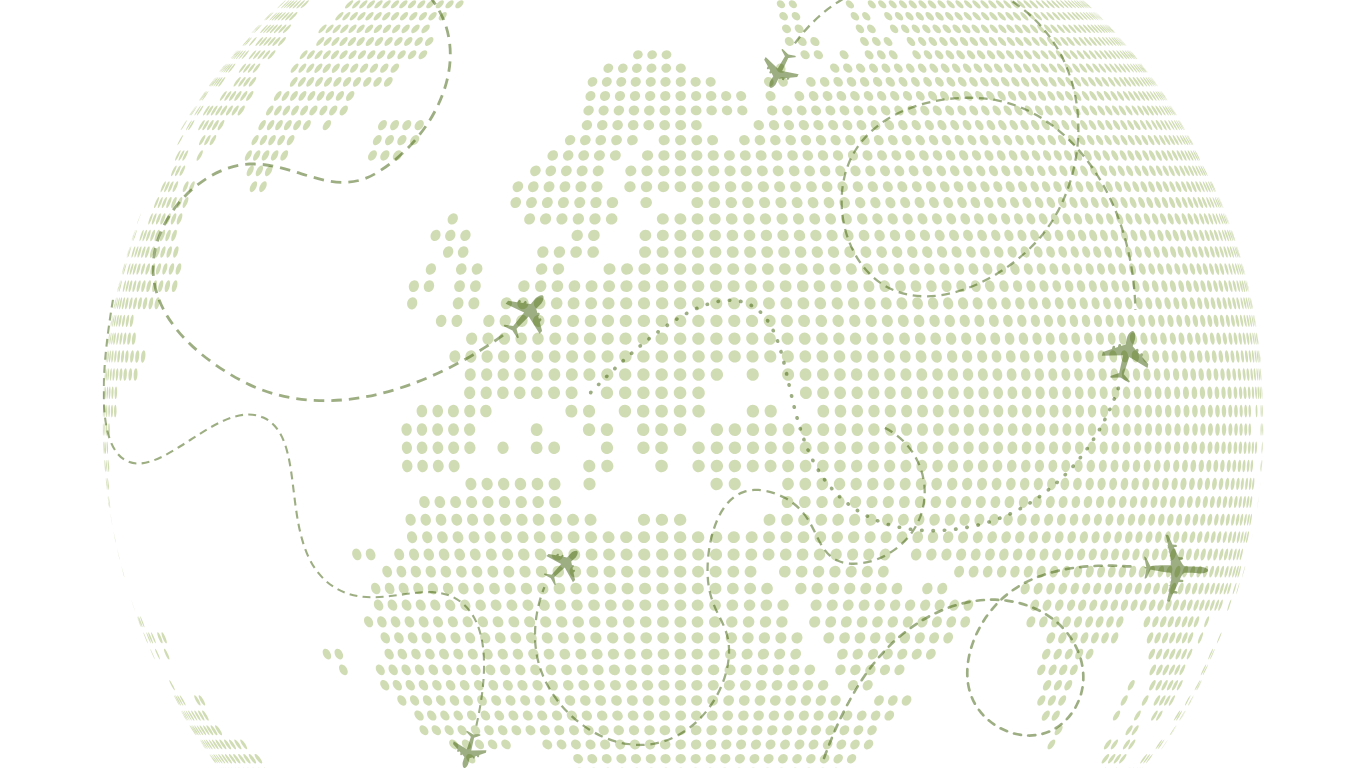
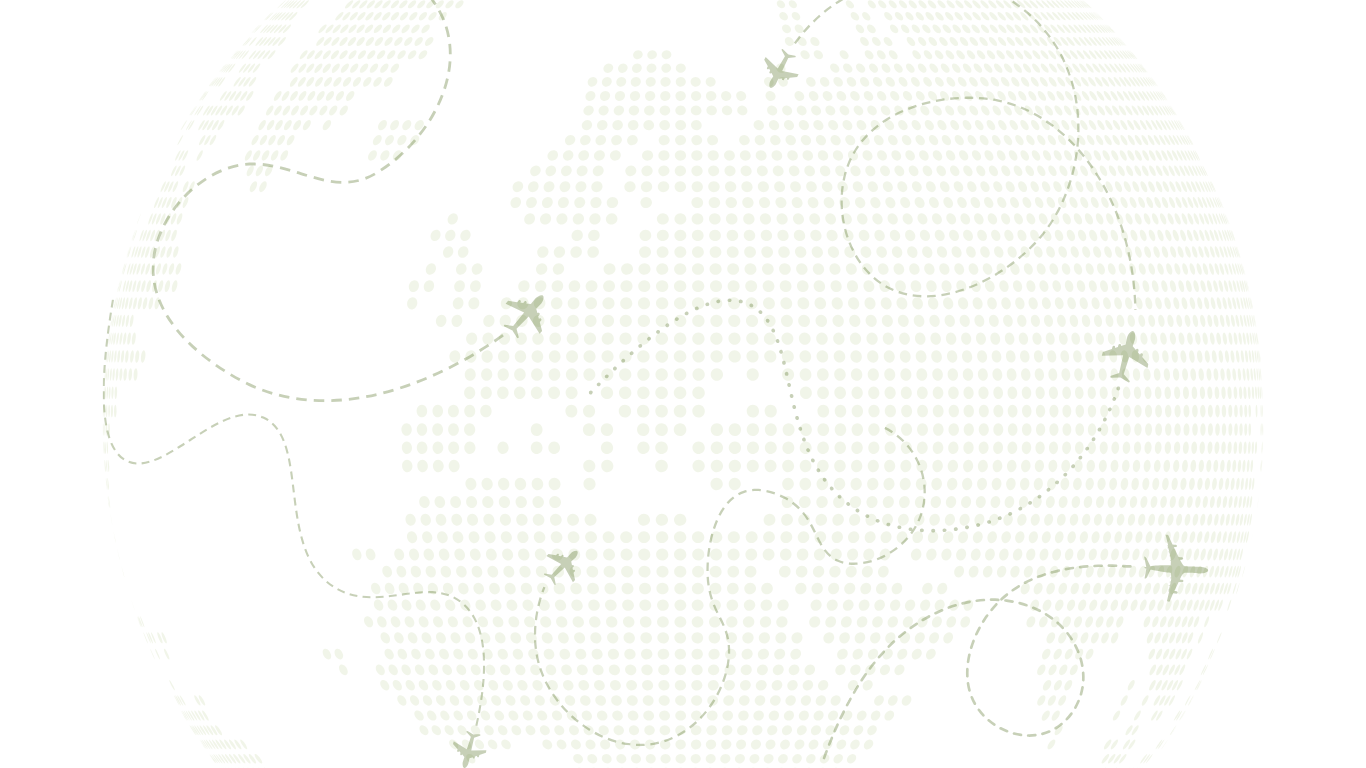
bg

diff --git a/AGQ/agq_owndash.php b/AGQ/agq_owndash.php
@@ -71,7 +71,7 @@ if (!empty($search_query)) {
     <link rel="stylesheet" type="text/css" href="../css/owndash.css">
 </head>
 
-<body>
+<body style="background-image: url('ownbg.png'); background-repeat: no-repeat; background-size: cover; background-position: center;">
     <div class="top-container">
         <div class="dept-container">
             <div class="dept-label">

diff --git a/AGQ/agq_employdash.php b/AGQ/agq_employdash.php
@@ -70,7 +70,7 @@ if (!empty($search_query)) {
 </head>
 <link rel="icon" href="images/agq_logo.png" type="image/ico">
 
-<body>
+<body style="background-image: url('sbg.png'); background-repeat: no-repeat; background-size: cover; background-position: center;">
     <div class="top-container">
         <div class="dept-container">
             <div class="dept-label">
